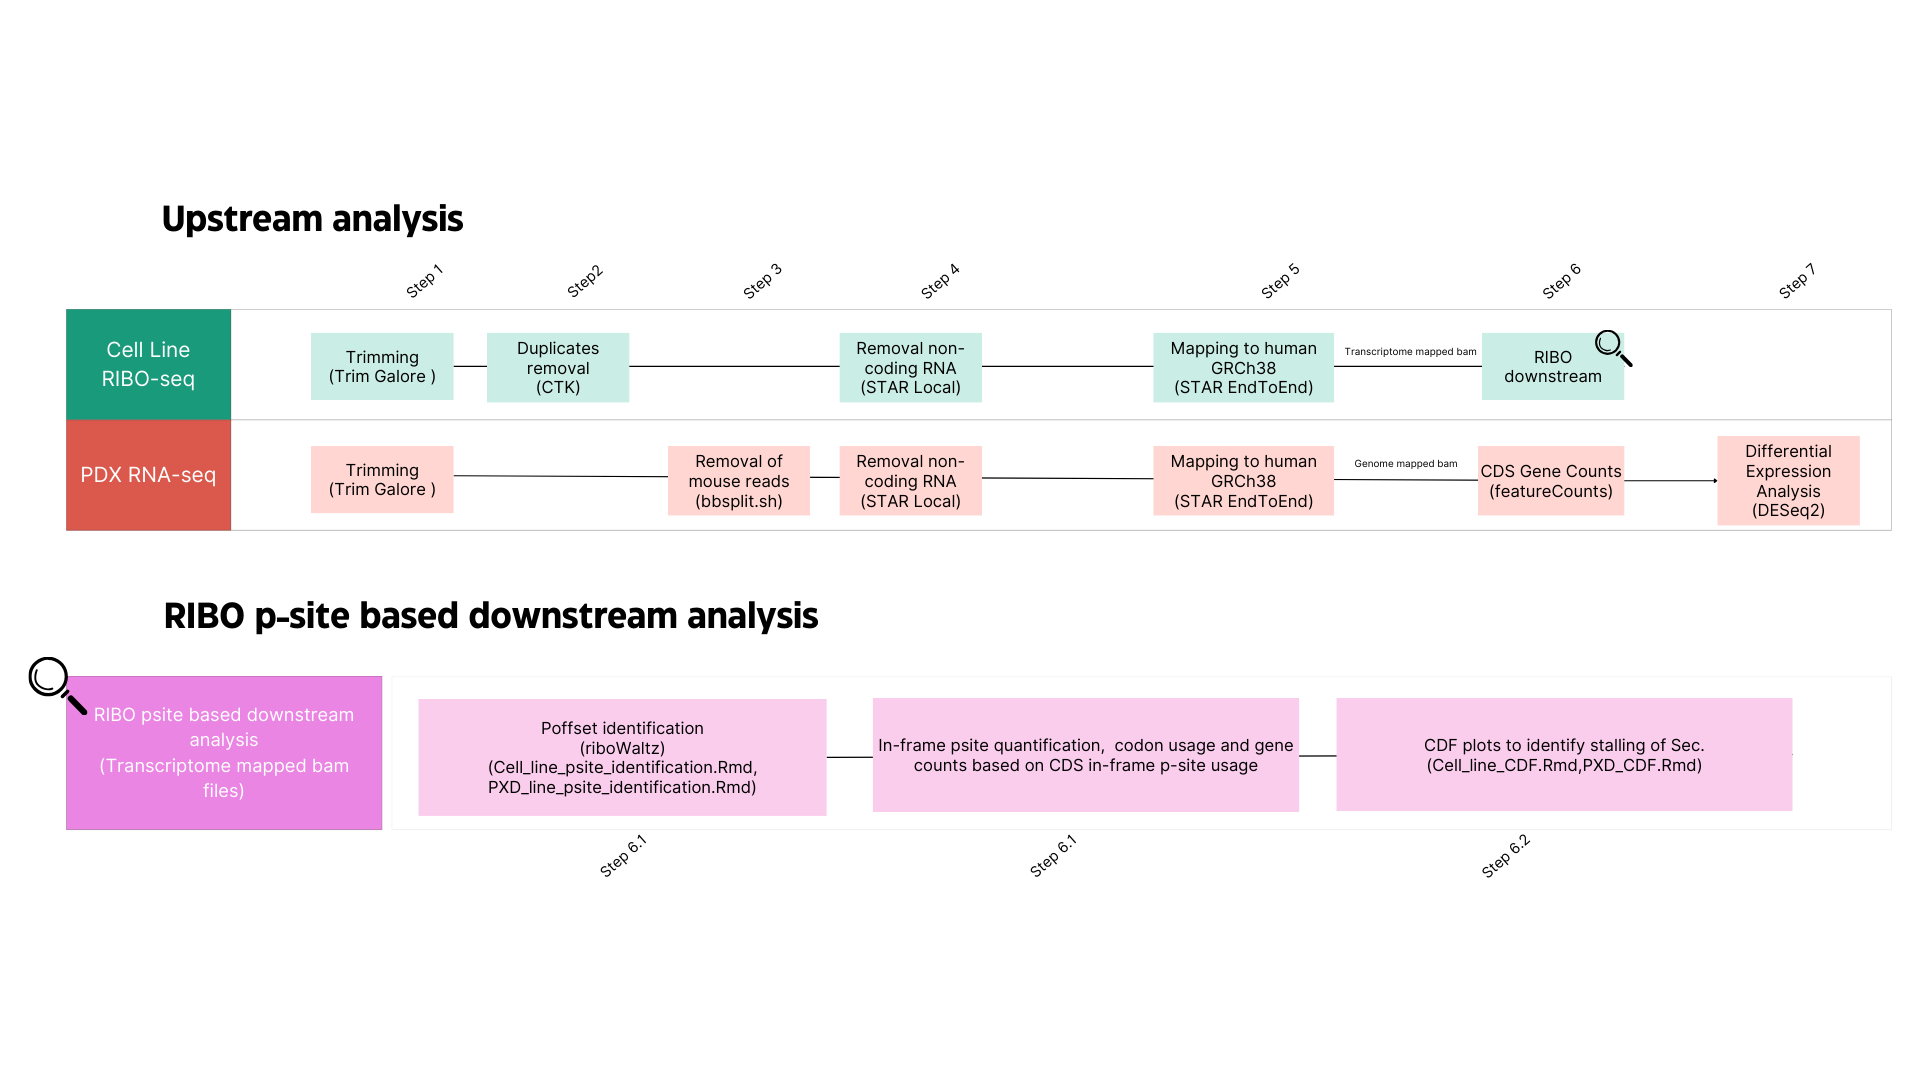
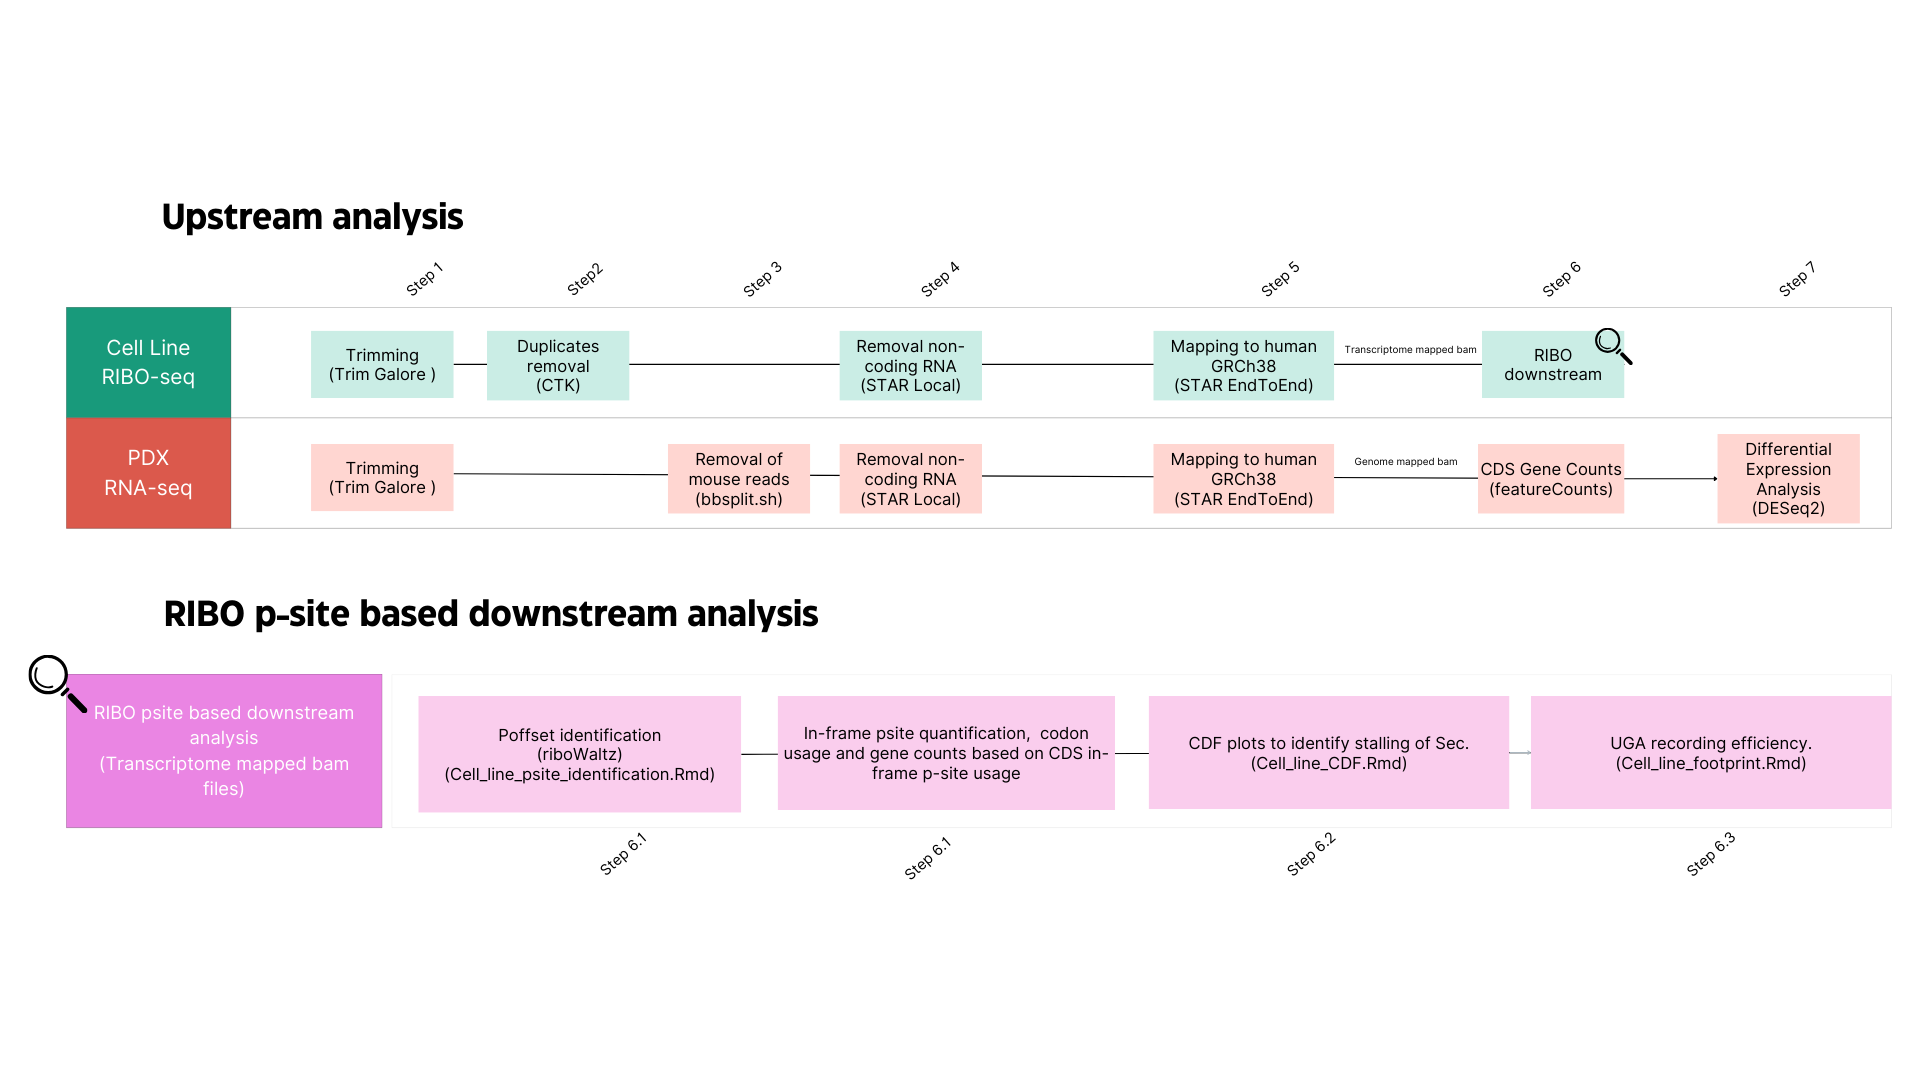
after meeting

diff --git a/README.md b/README.md
@@ -60,3 +60,9 @@ For in-frame *p-site* coverage quantification, reads longer than 25 pb and short
 - **Step 6.2: Stalling CDF plots**:
 
 Once the *p-site* coverage through each selenoprotein and nucleotide position is identified, mean values and cumulative fractions across conditions are calculated through the entire gene body. ([Cell_line_CDF.Rmd](https://github.com/abcwcm/piskounova_ribo/blob/main/analysis_scripts/downstream_analysis/Script2_cell_lines_CDF_plots.Rmd))
+
+
+- **Step 6.3: UGA recodring efficiency**:
+
+UGA recording efficiency was determined based on the obtained CDS *p-site* coverage. Ratio of 3’ and 5’ coverages are calculated based on fixed -X and +X bases relative to the Sec codon. Since we were using only CDS _p-site values, and for some of the selenoproteins the distance between Sec and stop codon is short, these fixed bins are different between selenoproteins. 
+([Cell_line_footprint.Rmd](https://github.com/abcwcm/piskounova_ribo/blob/main/analysis_scripts/downstream_analysis/Script3_cell_lines_readthrough_footprints.Rmd))
